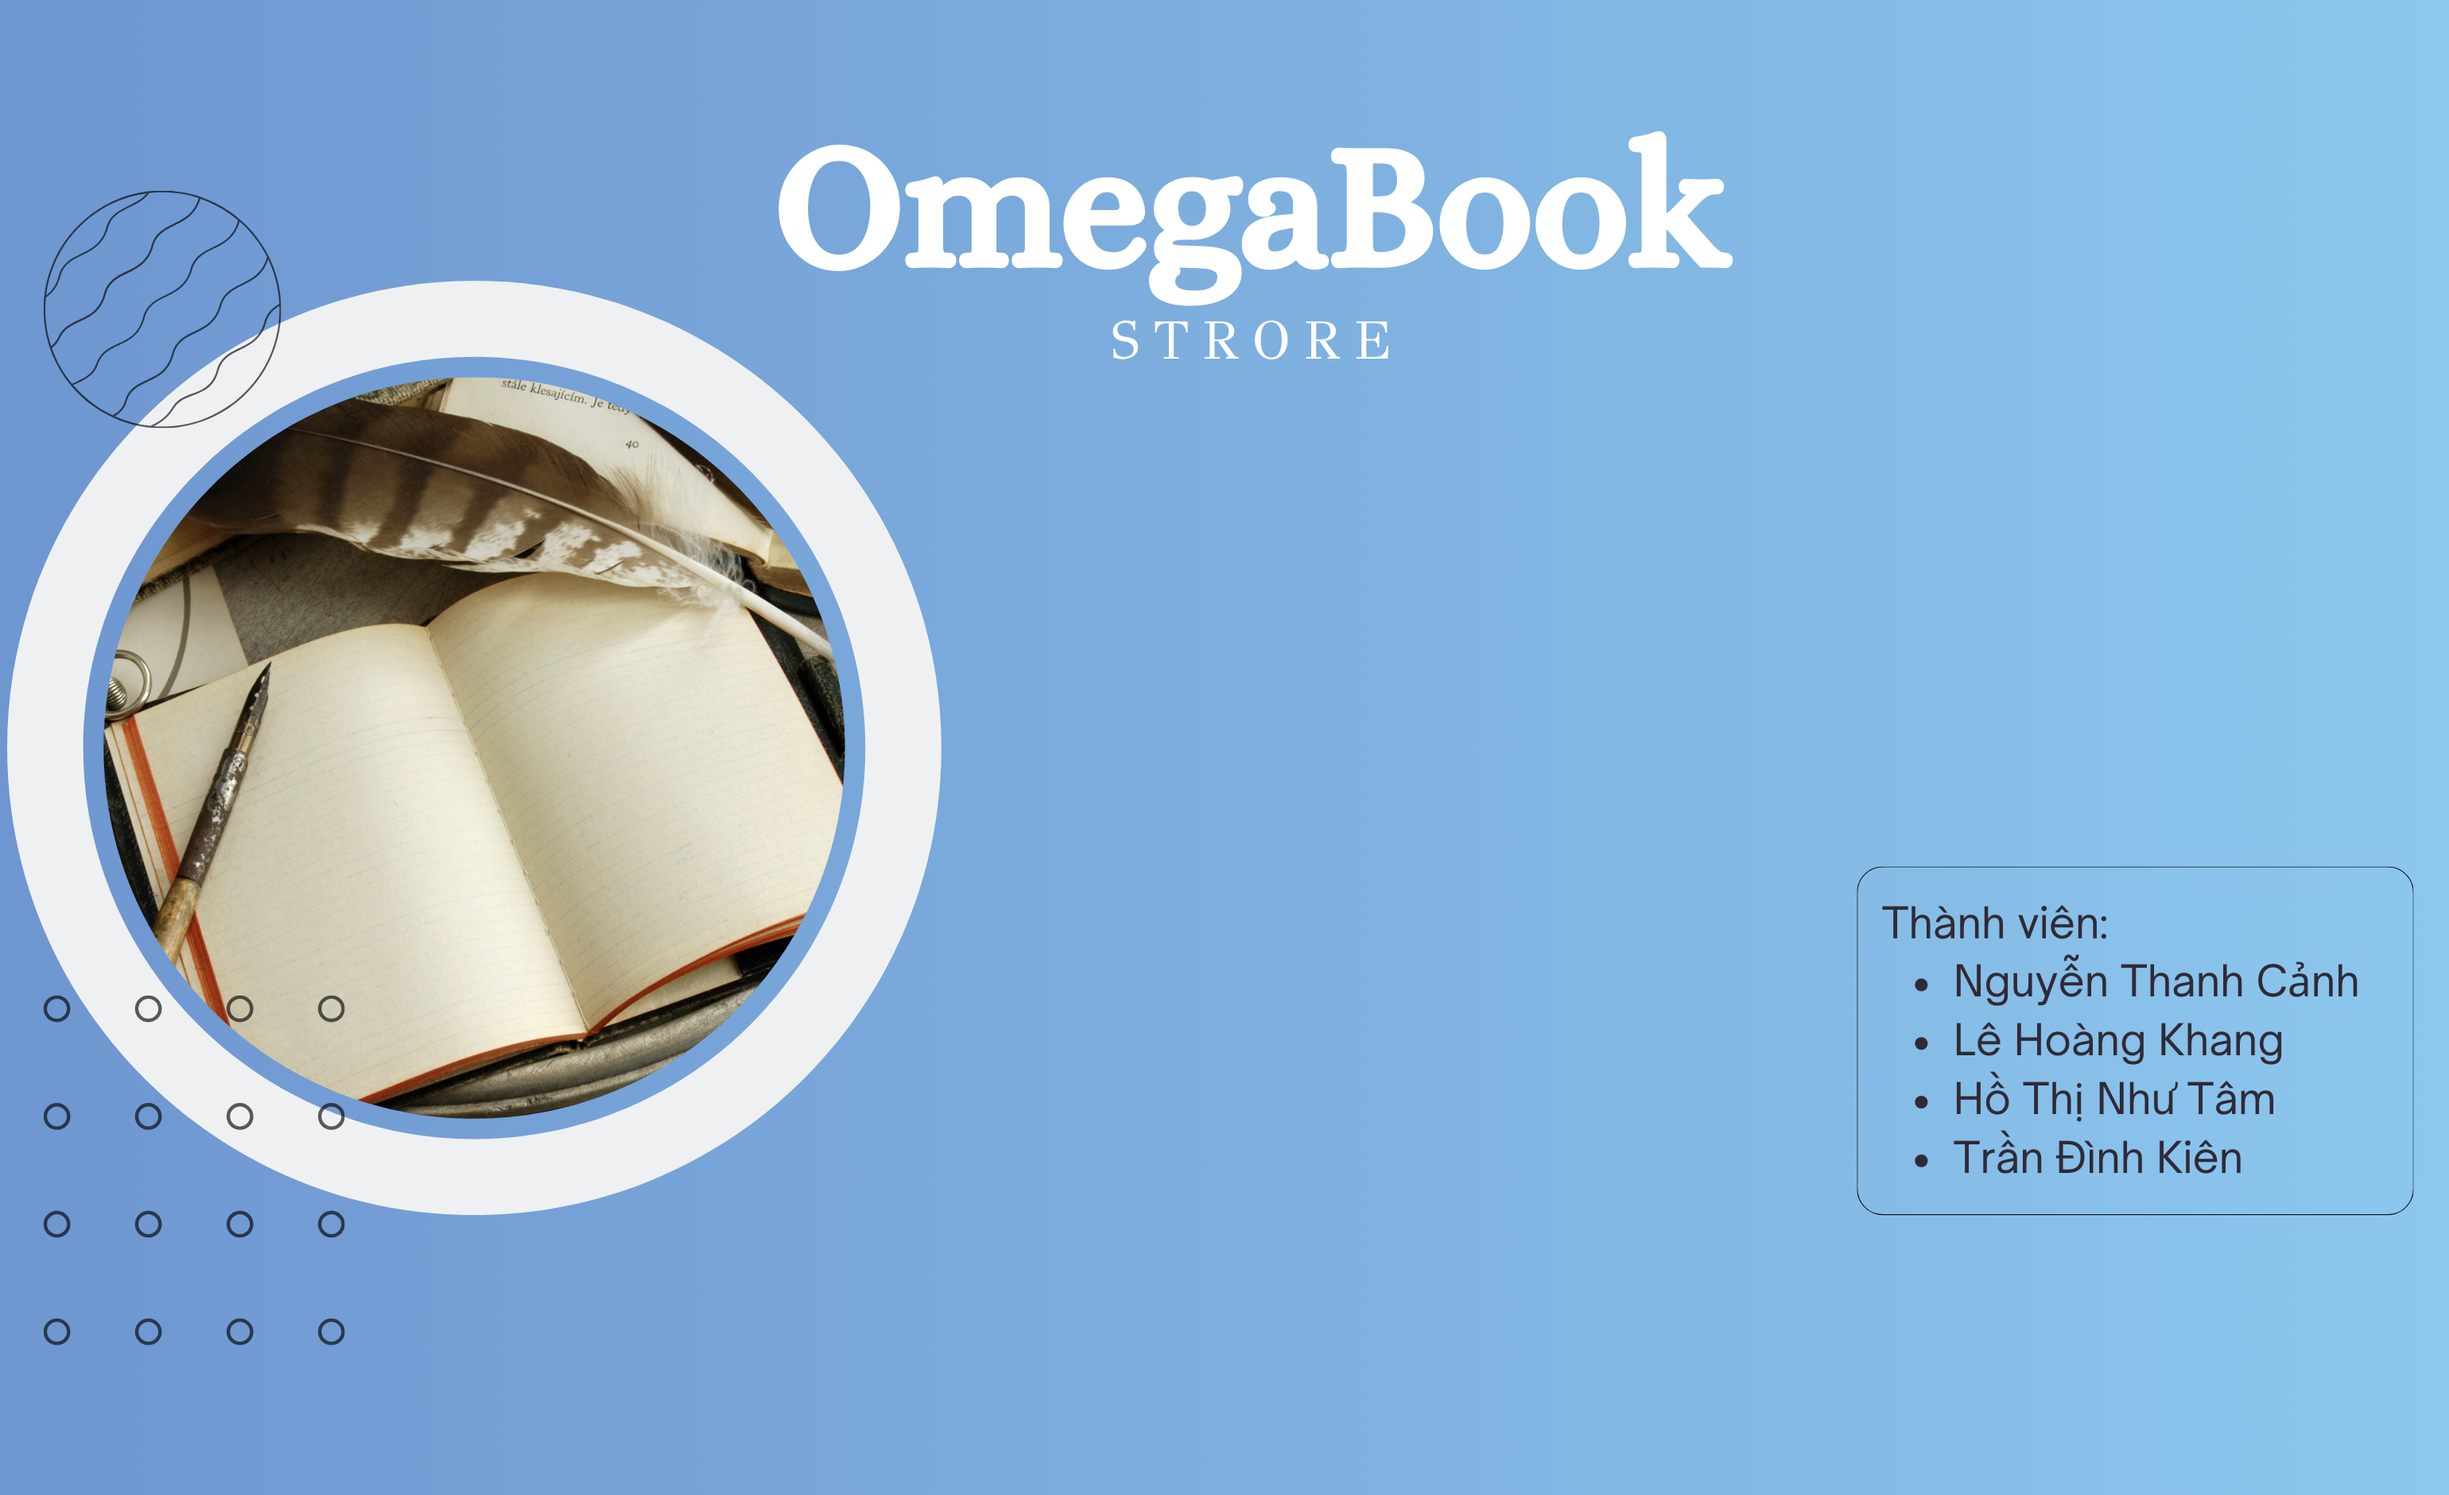
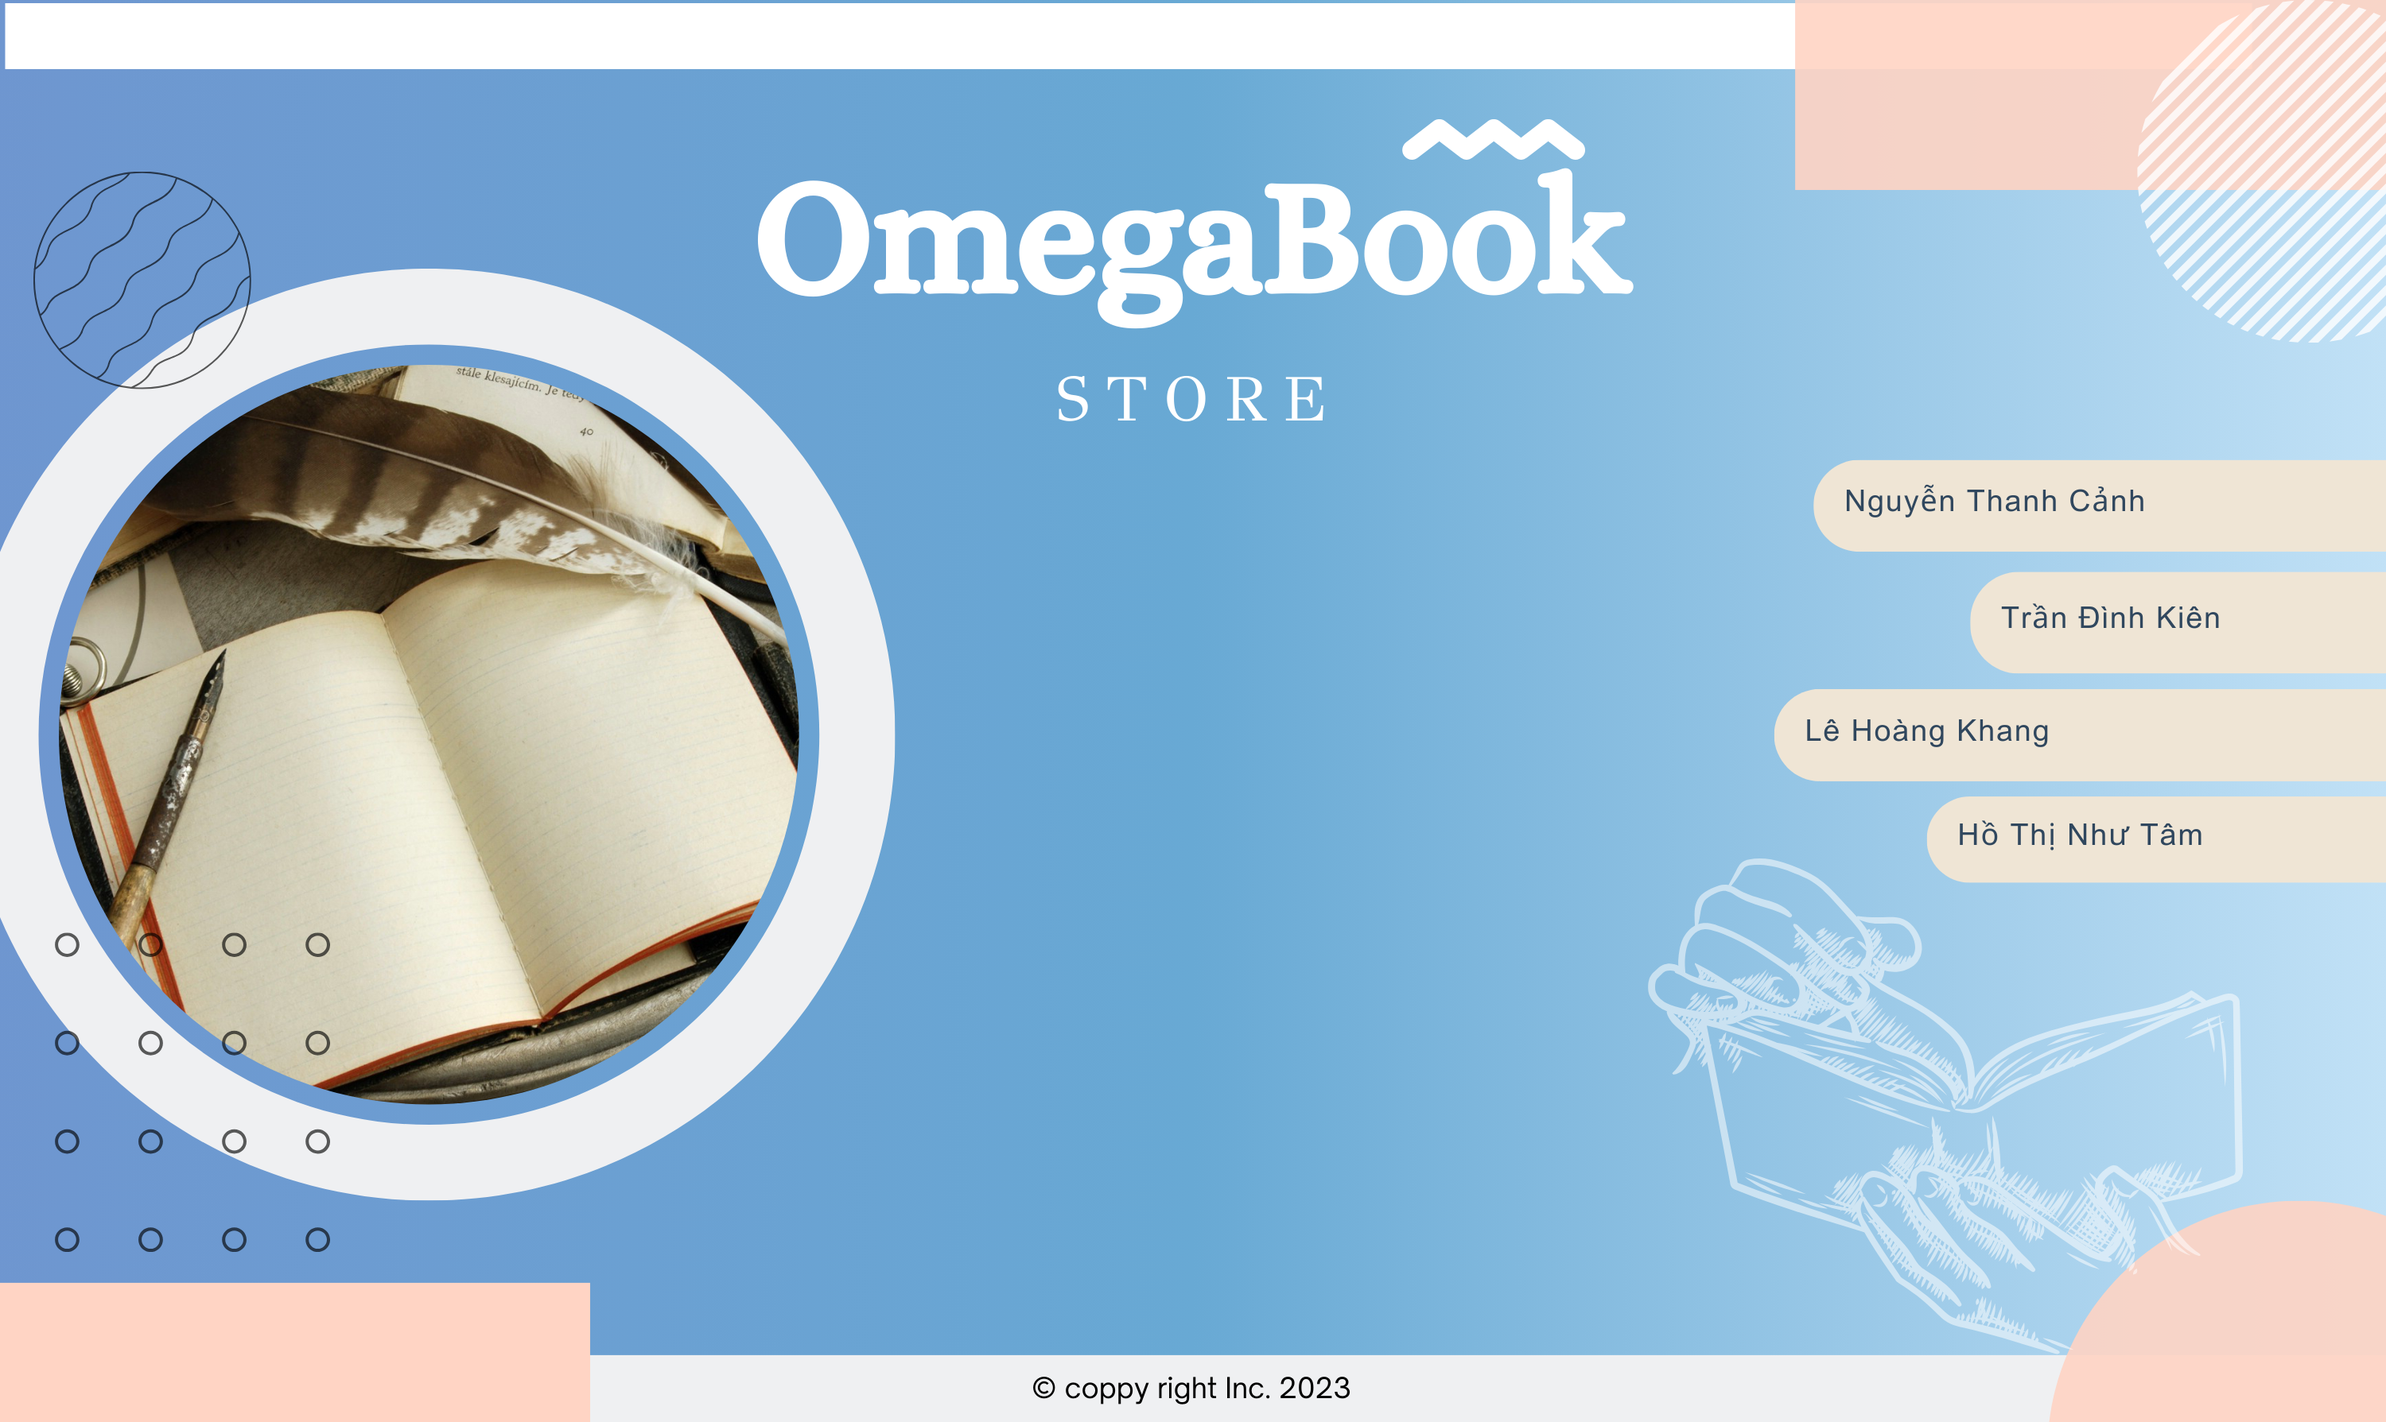
[ADD] Thêm ảnh background

diff --git a/src/gui/Login_GUI.java b/src/gui/Login_GUI.java
@@ -172,7 +172,7 @@ public class Login_GUI extends javax.swing.JPanel {
         gridBagConstraints.insets = new java.awt.Insets(5, 20, 0, 20);
         pnl_loginForm.add(lbl_passwordLogin, gridBagConstraints);
 
-        pwr_passwordLogin.setText("Khang2003");
+        pwr_passwordLogin.setText("Lehoangkhang");
         pwr_passwordLogin.setMaximumSize(new java.awt.Dimension(2147483647, 22));
         pwr_passwordLogin.putClientProperty(FlatClientProperties.STYLE, ""
             + "showRevealButton:true;"
@@ -243,15 +243,11 @@ public class Login_GUI extends javax.swing.JPanel {
         gridBagConstraints.anchor = java.awt.GridBagConstraints.NORTHEAST;
         pnl_loginForm.add(lbl_navChangePassword, gridBagConstraints);
 
-          Dimension screenSize = Toolkit.getDefaultToolkit().getScreenSize();
-        int screenWidth = screenSize.width;
-        int screenHeight = screenSize.height;
-        int centerX = (screenWidth - 400) / 2;
-        int centerY = (screenHeight - 520) / 2;
-
-        pnl_login.add(pnl_loginForm, new org.netbeans.lib.awtextra.AbsoluteConstraints(centerX, centerY, 400, 350));
+        pnl_login.add(pnl_loginForm, new org.netbeans.lib.awtextra.AbsoluteConstraints(420, 10, 400, 350));
         pnl_loginForm.getAccessibleContext().setAccessibleDescription("");
-        
+        int centerX = (pnl_login.getWidth() - pnl_loginForm.getWidth()) / 2;
+        int centerY = (pnl_login.getHeight() - pnl_loginForm.getHeight()) / 2;
+        pnl_login.setBounds(centerX, centerY, pnl_loginForm.getWidth(), pnl_loginForm.getHeight());
 
         pnl_changePasswordForm.setBackground(new java.awt.Color(255, 255, 255));
         pnl_changePasswordForm.setBorder(javax.swing.BorderFactory.createEmptyBorder(1, 30, 10, 30));
@@ -268,7 +264,6 @@ public class Login_GUI extends javax.swing.JPanel {
         pnl_changePasswordFormLayout.rowHeights = new int[] {0, 0, 0, 0, 0, 0, 0, 0, 0, 0, 0, 0, 0};
         pnl_changePasswordForm.setLayout(pnl_changePasswordFormLayout);
 
-        lbl_titleChangePassword.setBackground(null);
         lbl_titleChangePassword.setFont(lbl_titleChangePassword.getFont().deriveFont(lbl_titleChangePassword.getFont().getStyle() | java.awt.Font.BOLD, 24));
         lbl_titleChangePassword.setForeground(new java.awt.Color(71, 118, 185));
         lbl_titleChangePassword.setHorizontalAlignment(javax.swing.SwingConstants.CENTER);
@@ -429,13 +424,11 @@ public class Login_GUI extends javax.swing.JPanel {
         gridBagConstraints.insets = new java.awt.Insets(5, 20, 0, 20);
         pnl_changePasswordForm.add(pwr_password, gridBagConstraints);
 
+        pnl_login.add(pnl_changePasswordForm, new org.netbeans.lib.awtextra.AbsoluteConstraints(10, 20, 400, 520));
 
-        centerX = (screenWidth - 400) / 2;
-        centerY = (screenHeight - 520) / 2 - 50;
-
-        pnl_login.add(pnl_changePasswordForm, new org.netbeans.lib.awtextra.AbsoluteConstraints(centerX, centerY, 400, 520));
         lbl_bachground.setIcon(new javax.swing.ImageIcon(getClass().getResource("/imgs/login/background.png"))); // NOI18N
-        pnl_login.add(lbl_bachground, new org.netbeans.lib.awtextra.AbsoluteConstraints(0, -40, 3090, 1880));
+        lbl_bachground.setPreferredSize(new java.awt.Dimension(3000,1789));
+        pnl_login.add(lbl_bachground, new org.netbeans.lib.awtextra.AbsoluteConstraints(90, -40, 3090, 1880));
 
         add(pnl_login, "card4");
     }// </editor-fold>//GEN-END:initComponents
